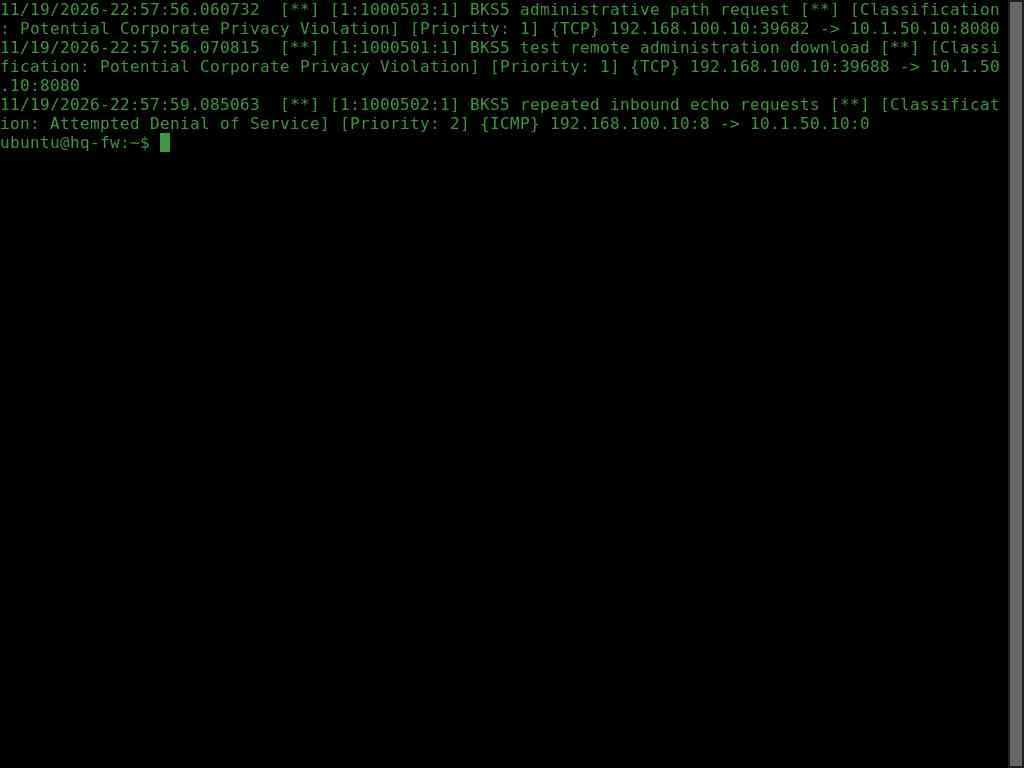
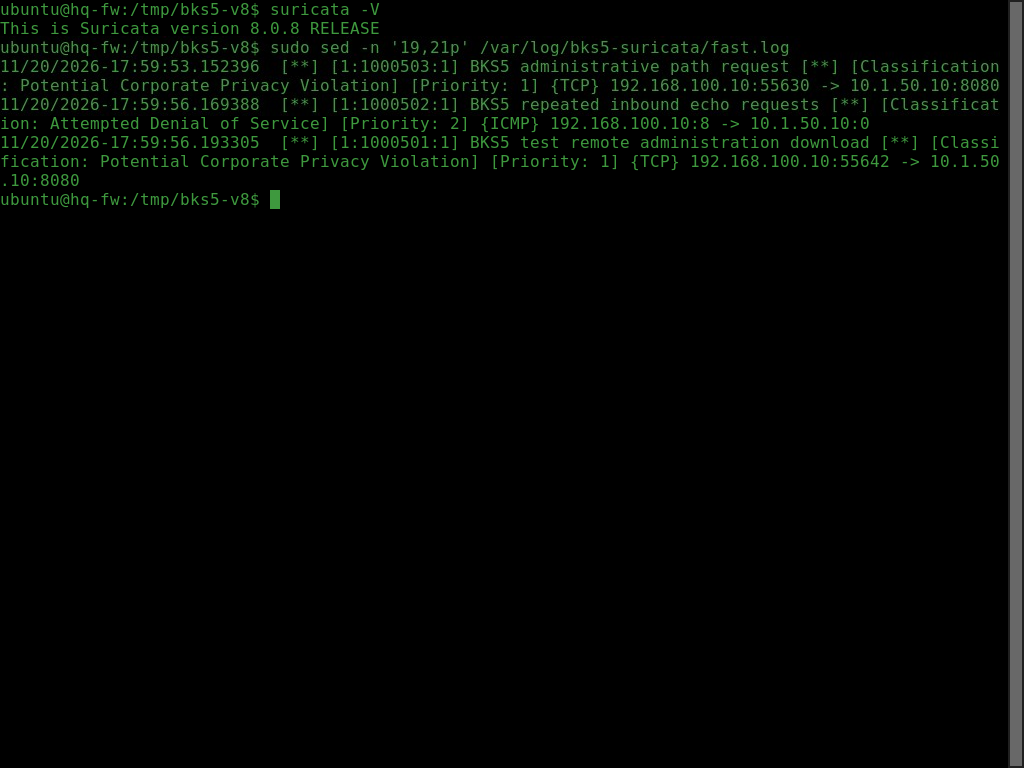
Update Suricata configuration and documentation for version 8.0.8
- Modified `compare-ips.sh` to use case-insensitive grep for engine start confirmation.
- Updated binary images `ids-console.png` and `ips-console.png` to reflect new outputs.
- Revised `main.typ` to include new console image layout and updated Suricata documentation links.
- Adjusted output files to reflect changes in Suricata version and alert outputs.
- Enhanced `README.md` to indicate the use of Suricata 8.0.8 and confirm successful topology export.
- Updated various output logs and alerts to align with the new Suricata version and its behavior.

Changed region(s): [[0.0, 0.0, 1.0, 0.2812]]

diff --git a/BKS/lab5/AGENTS.md b/BKS/lab5/AGENTS.md
@@ -34,3 +34,17 @@
[1 lines of base64/hex data omitted]
 - Сенсор после обновления загрузил 16 сигнатур без ошибок, включая 3 собственных и 13 ET Open. Включён `threshold.config` для ограничения повторов SID 1000503. На повторной проверке EVE содержит ровно три локальных оповещения. `bks5-suricata` активна, временные правила FORWARD сняты, штатная политика `ACCEPT`.
 - Повторный тест IPS после обновления также дал `[Drop]` для SID 1000503. После завершения прогона подтверждены `bks5-suricata active`, отсутствие NFQUEUE в FORWARD и `HTTP 200` для `/wp-admin/`. Доказательства в `outputs/sensor-final-state.txt`.
+
+## Проверка стенда и отчёта, 2026-11-20 вечером
+
+В сессии 10 проверены консоли всех трёх ВМ. На сенсоре Suricata 6.0.4, проверка активной YAML успешна. Три локальные сигнатуры совпадают с репозиторием по SHA-256, в отдельном наборе 13 ET. Через шлюз клиент получил HTTP 200 и 4/4 ответов ICMP. В свежем fast.log подтверждены 1000503 → 1000502 → 1000501. При проверке NFQUEUE обычная страница вернула 200, административный путь дал тайм-аут и событие Drop. Временная мера реагирования дала 0/2 ICMP при HTTP 200. После проверок IDS снова active, в FORWARD только политика ACCEPT, ping проходит, административный путь снова возвращает HTTP 200.
+
+Сверка с оригиналом методички: § 2.2 прямо требует Suricata 8.x из PPA OISF, установленная версия 6.0.4 из Ubuntu этому условию не соответствует. В отчёте условия трёх правил описаны таблицей, их полный синтаксис хранится отдельно в configs/local.rules. PDF собран и проверен, 15 страниц.
+
+## Итоговый прогон на Suricata 8, 2026-11-20
+
+В session 10 установлен пакет OISF PPA для Jammy 1:8.0.8-0ubuntu2. Подписи InRelease и цепочка SHA-256 до deb проверены. SHA-256 пакета f6a3d400311378a3562a551ff5b5d12f9d2ad6448bb31a869edf01f4f2e6f995. На сенсоре suricata-update 1.3.8 обработал ET Open 8.0.8, SHA-256 архива de9f12a89dabdb50c0d7f5ba9969df4b3bcc13baea05c902e0c54102202233ab. Активный YAML собран из пакета 8.0.8, 3 локальных + 13 ET, 0 ошибок загрузки. Прежняя конфигурация сохранена на сенсоре в /tmp/bks5-v8/config-before.tar.
+
+На клиенте HTTP 200 и 4/4 ICMP, три SID в EVE, при двух запросах к административному пути одно оповещение. NFQUEUE: обычная страница 200, административный запрос завершился с curl 28, fast.log Drop и EVE blocked. Мера реагирования заблокировала 2 ICMP при HTTP 200. После тестов IDS active, FORWARD ACCEPT без дополнительных правил, административный путь 200, ping 1/1. На прежнем PCAP движок 8.0.8 обработал 62 пакета и дал три локальных события. Для независимой проверки исправления URI частотное ограничение выключалось в обоих офлайн-проходах.
+
+Три полных правила, новый снимок IDS и снимок IPS, новые журналы и сравнение добавлены в отчёт. PDF — 15 страниц. После завершения сделана повторная выгрузка BKS5.unl, содержимое совпало с сохранённым архивом. Временный изолированный сегмент доставки пакета отсоединён.

diff --git a/BKS/lab5/stand/README.md b/BKS/lab5/stand/README.md
@@ -1,3 +1,5 @@
 # Стенд BKS5
 
 `pnetlab_export-20261120-131552.zip` — актуальная выгрузка `/BKS labs/BKS5.unl` от 2026-11-20. Для импорта нужен образ `linux-ubuntu-server-22.04`. Архив содержит топологию. Настройки гостевых Ubuntu применены в сессии 10 и отдельно представлены скриптами в `../commands/` и правилами в `../configs/`.
+
+Итоговая сессия 10 использует Suricata 8.0.8 из PPA OISF для Jammy. После обновления повторно выгруженный BKS5.unl побайтно совпал с топологией в архиве.
